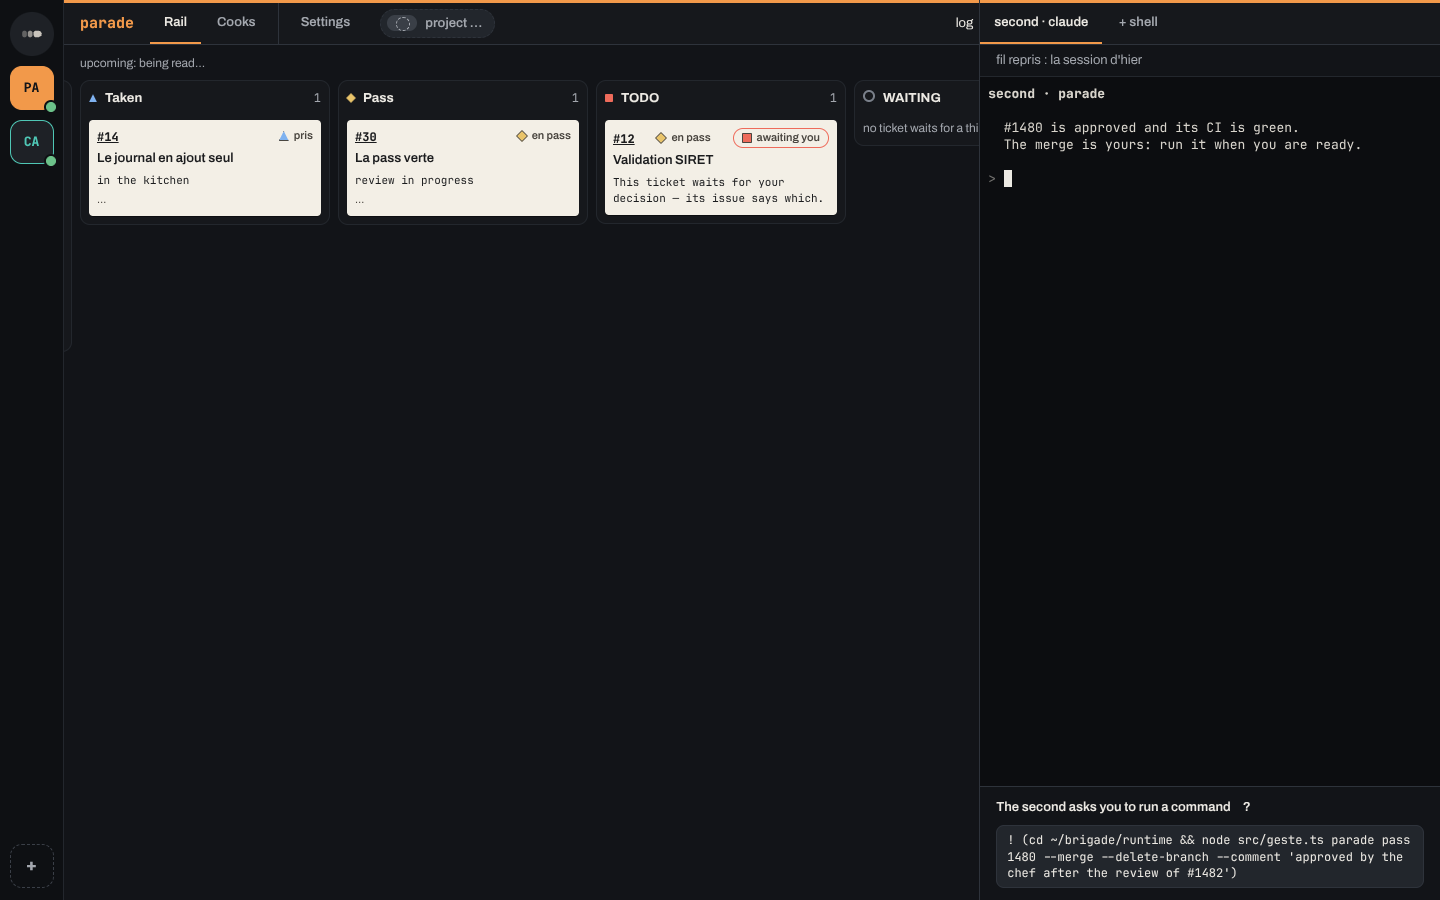
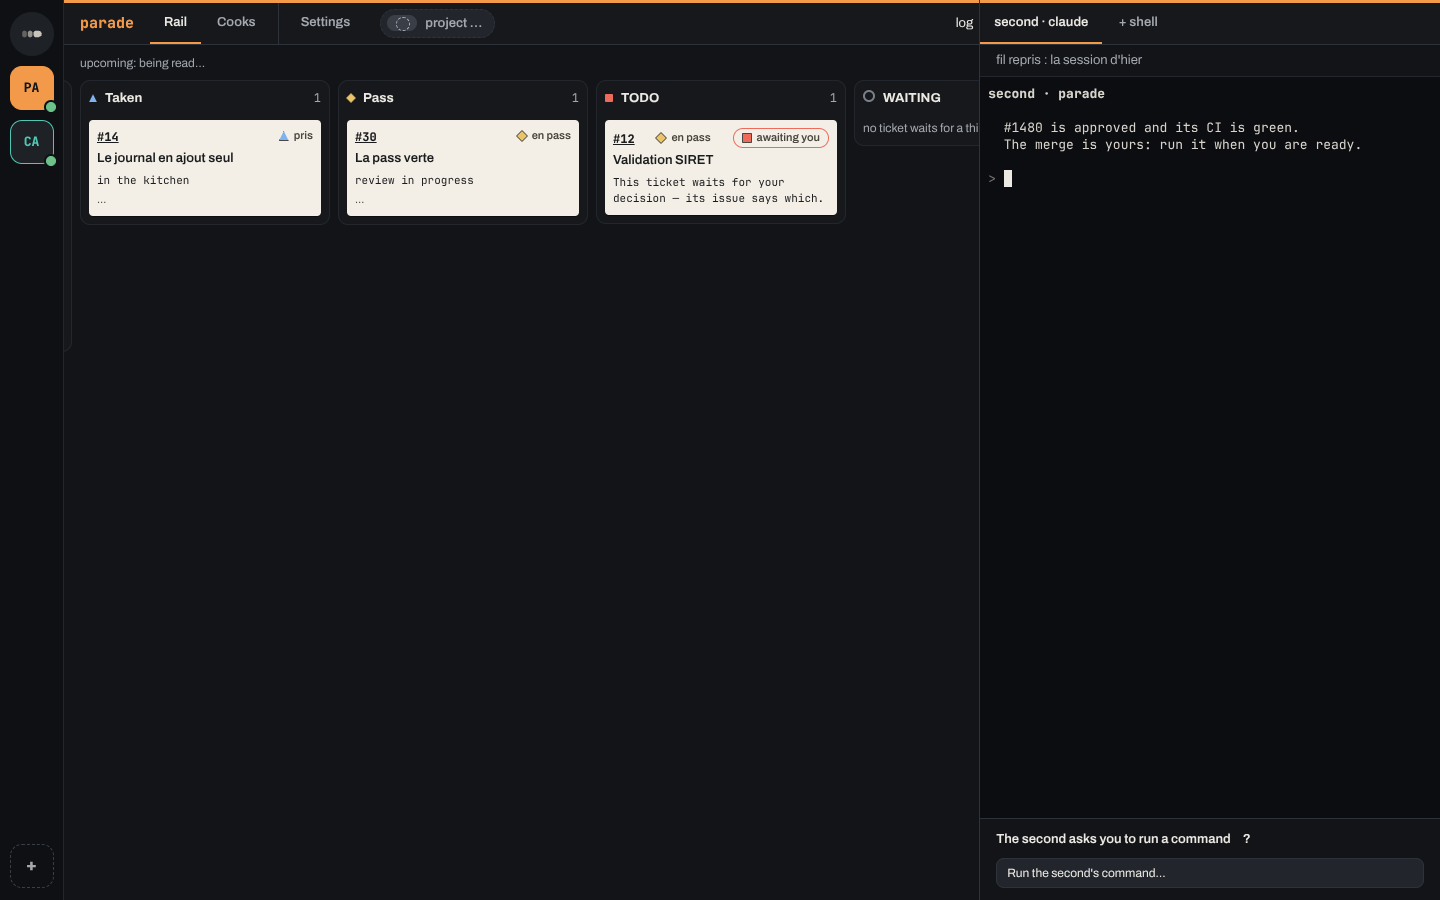
fix(#1847): le geste que le second nomme est un bouton en mots, la commande exacte au survol et dans une aide repliée

Changed region(s): [[0.6875, 0.8711, 0.9688, 0.9956]]

diff --git a/app/test/vue/second/geste.test.ts b/app/test/vue/second/geste.test.ts
@@ -19,7 +19,7 @@ import { EFFORTS, MODELES } from "../../../src/projets/projets.ts";
 import type { Proposition } from "../../../src/second/propositions.ts";
 import type { Terminal } from "../../../src/terminaux.ts";
 import { tenirLesChoix } from "../../../src/vue/second/choix.js";
-import { AIDE, ANNULER, ATTENDU, LANCER, poserGesteDuSecond, TITRE } from "../../../src/vue/second/geste.js";
+import { AIDE, ANNULER, ATTENDU, BOUTON, LANCER, poserGesteDuSecond, TITRE, VOIR } from "../../../src/vue/second/geste.js";
 import { Faux, type Jouee, jouerLaVue, repos } from "../../aides/fausse-vue.ts";
 
 const doc = { createElement: (balise: string) => new Faux(balise) };
@@ -57,19 +57,22 @@ describe("le module : un bouton qui porte la commande, et sa confirmation", () =
     const aide = pose.dessous("button").filter((b) => b.className === "aide");
     assert.equal(aide.length, 1);
     assert.equal(aide[0]?.ariaLabel, AIDE);
-    assert.equal(bouton(pose).textContent, "! gh pr merge 1480 --merge");
+    // Le bouton parle au chef ; la commande exacte n'est nulle part à l'écran, elle est au survol du bouton.
+    assert.equal(bouton(pose).textContent, BOUTON);
+    assert.equal(bouton(pose).ariaLabel, "! gh pr merge 1480 --merge");
+    assert.deepEqual(commandes(pose), []);
     assert.equal(bouton(pose).ariaExpanded, "false");
     assert.equal(confirmation(pose), undefined);
     bouton(pose).click();
     assert.deepEqual(appels, ["basculer"]);
   });
 
-  test("une commande longue se lit entière, à l'octet près — espaces, guillemets, `$` —, sur le bouton comme dans la confirmation", () => {
+  test("une commande longue se lit entière, à l'octet près — espaces, guillemets, `$` —, au survol du bouton et dans l'aide repliée de la confirmation", () => {
     const pose: Faux = poserGesteDuSecond(doc, PASSER, { ouverte: true, basculer: () => {}, annuler: () => {}, lancer: () => {} });
-    assert.equal(bouton(pose).textContent, LONGUE);
-    assert.deepEqual(commandes(pose), [LONGUE, LONGUE]);
+    assert.equal(bouton(pose).ariaLabel, LONGUE);
+    assert.deepEqual(commandes(pose), [LONGUE]);
     // Elle ne passe à la ligne qu'entre ses mots : chacun d'un tenant, aucun n'est coupé ni réécrit.
-    const mots = (bouton(pose).dessous("span").find((span) => span.className === "commande mono") ?? assert.fail("pas de commande")).children.map((mot) => mot.textContent);
+    const mots = (pose.dessous("p").find((p) => p.className === "commande mono") ?? assert.fail("pas de commande")).children.map((mot) => mot.textContent);
     assert.deepEqual(mots, LONGUE.split(/ +/).filter((mot) => mot !== ""));
   });
 
@@ -78,10 +81,12 @@ describe("le module : un bouton qui porte la commande, et sa confirmation", () =
     const pose: Faux = poserGesteDuSecond(doc, MERGER, { ouverte: true, basculer: () => appels.push("basculer"), annuler: () => appels.push("annuler"), lancer: () => appels.push("lancer") });
     const ouverte = confirmation(pose) ?? assert.fail("pas de confirmation");
     assert.equal(bouton(pose).ariaExpanded, "true");
+    // Sous sa question, la commande est dans une aide repliée — fermée —, puis les deux réponses.
     assert.deepEqual(
-      ouverte.children.map((pose) => pose.textContent),
-      [TITRE, "! gh pr merge 1480 --merge", LANCER, ANNULER],
+      ouverte.children.map((pose) => pose.className === "replie" ? pose.dessous("summary")[0]?.textContent.startsWith(VOIR) : pose.textContent),
+      [TITRE, true, LANCER, ANNULER],
     );
+    assert.deepEqual(commandes(pose), ["! gh pr merge 1480 --merge"]);
     assert.equal(reponse(pose, LANCER).className, "recommande");
     // Rien ne coûte : pas de ligne de prix.
     assert.equal(ouverte.dessous("p").some((p) => p.className === "prix"), false);
@@ -155,6 +160,8 @@ const entrer = async (vue: Jouee, rang: number) => {
 const sous = (vue: Jouee) => vue.element("choix-du-second");
 // Ce qui se voit sous le terminal : la commande du bouton, et celle de la confirmation si elle est ouverte.
 const vu = (vue: Jouee) => (sous(vue).hidden ? [] : commandes(sous(vue)));
+// La commande que le bouton propose, au survol — rien quand aucun bouton n'est là.
+const proposee = (vue: Jouee) => (sous(vue).hidden ? [] : [leBouton(sous(vue))?.ariaLabel].filter((commande) => commande !== undefined));
 const ecrits = (vue: Jouee) => vue.appels.filter(({ geste }) => geste === "ecrire").map(({ args }) => args);
 const reponses = (vue: Jouee) => vue.appels.filter(({ geste }) => geste === "repondreAuSecond").map(({ args }) => args);
 const publier = async (vue: Jouee, projet: string, proposition: Proposition | null) => {
@@ -168,12 +175,15 @@ const cliquer = async (pose: Faux) => {
 const terminal = (vue: Jouee) => vue.xterms[0] ?? assert.fail("pas de terminal");
 
 describe("dans l'onglet du second", () => {
-  test("le second nomme un geste : un bouton sous le terminal porte la commande exacte, entière même longue, et rien n'est lancé", async () => {
+  test("le second nomme un geste : un bouton sous le terminal, en mots — la commande exacte, entière même longue, est à son survol —, et rien n'est lancé", async () => {
     const vue = await ouvrir();
     assert.equal(sous(vue).hidden, true);
     await publier(vue, "parade", PASSER);
     assert.equal(sous(vue).hidden, false);
-    assert.deepEqual(vu(vue), [LONGUE]);
+    // Aucune ligne de commande à l'écran : un bouton en mots, la commande au survol.
+    assert.deepEqual(vu(vue), []);
+    assert.equal(bouton(sous(vue)).textContent, BOUTON);
+    assert.equal(bouton(sous(vue)).ariaLabel, LONGUE);
     assert.equal(sous(vue).children[0]?.dessous("p")[0]?.textContent.startsWith(ATTENDU), true);
     assert.deepEqual(ecrits(vue), []);
     assert.deepEqual(reponses(vue), []);
@@ -185,12 +195,12 @@ describe("dans l'onglet du second", () => {
     const focalise = terminal(vue).focalise;
     const sortie = [...terminal(vue).ecrits];
     await cliquer(bouton(sous(vue)));
-    assert.deepEqual(vu(vue), [LONGUE, LONGUE]);
+    assert.deepEqual(vu(vue), [LONGUE]);
     assert.equal((confirmation(sous(vue)) ?? assert.fail("pas de confirmation")).dessous("p")[0]?.textContent, TITRE);
     await cliquer(reponse(sous(vue), ANNULER));
     // La confirmation se referme ; le geste reste proposé, le chef peut y revenir.
     assert.equal(confirmation(sous(vue)), undefined);
-    assert.deepEqual(vu(vue), [LONGUE]);
+    assert.deepEqual(vu(vue), []);
     assert.deepEqual(ecrits(vue), []);
     assert.deepEqual(reponses(vue), []);
     assert.equal(terminal(vue).focalise, focalise);
@@ -230,7 +240,8 @@ describe("dans l'onglet du second", () => {
     const ancien = reponse(sous(vue), LANCER);
     // Une proposition nouvelle : son bouton remplace l'autre, sans confirmation ouverte.
     await publier(vue, "parade", PASSER);
-    assert.deepEqual(vu(vue), [LONGUE]);
+    assert.deepEqual(vu(vue), []);
+    assert.equal(bouton(sous(vue)).ariaLabel, LONGUE);
     assert.equal(confirmation(sous(vue)), undefined);
     await cliquer(ancien);
     assert.deepEqual(ecrits(vue), []);
@@ -278,11 +289,11 @@ describe("dans l'onglet du second", () => {
     await publier(vue, "parade", MERGER);
     terminal(vue).taper("not now");
     await repos();
-    assert.deepEqual(vu(vue), [MERGER.command]);
+    assert.deepEqual(proposee(vue), [MERGER.command]);
     terminal(vue).taper("\r");
     await repos();
     assert.deepEqual(reponses(vue), [["parade", { id: "g-1", by: "text" }]]);
-    assert.deepEqual(vu(vue), []);
+    assert.deepEqual(proposee(vue), []);
     // Le terminal n'a reçu que ce que le chef a tapé.
     assert.deepEqual(ecrits(vue), [[1, "not now"], [1, "\r"]]);
   });
@@ -297,13 +308,13 @@ describe("dans l'onglet du second", () => {
     assert.deepEqual(vu(vue), []);
     (vue.element("terminaux").children.find((pose) => pose.textContent === "second · claude") ?? assert.fail("pas d'onglet du second")).click();
     await repos();
-    assert.deepEqual(vu(vue), [LONGUE]);
+    assert.deepEqual(proposee(vue), [LONGUE]);
     vue.dire("surEtat", { ...SECOND, arrete: true, note: "the second stopped (code 0) — a keypress restarts it" });
     await repos();
     assert.deepEqual(vu(vue), []);
     vue.dire("surEtat", SECOND);
     await repos();
     await entrer(vue, 2);
-    assert.deepEqual(vu(vue), [MERGER.command]);
+    assert.deepEqual(proposee(vue), [MERGER.command]);
   });
 });

diff --git a/app/src/vue/second/geste.js b/app/src/vue/second/geste.js
@@ -1,19 +1,22 @@
 // @ts-check
 // Le geste que le second nomme, sous son terminal (ticket 1521, épique 1518) : quand ce que le chef doit faire est une
 // commande — merger, lancer une pass —, le second la publie par son canal (runtime/src/second-propositions/), et
-// l'onglet du second la montre sur un bouton, à la place des choix (second/choix.js) : la commande exacte, entière, ni
-// coupée, ni rognée, ni cachée. Un clic ouvre une confirmation qui la redit entière ; « run it » la tape dans le
+// l'onglet du second la montre sur un bouton, à la place des choix (second/choix.js) : un bouton dit dans les mots du
+// chef, jamais la ligne de commande à l'écran. La commande exacte, entière, ni coupée ni rognée, se lit au survol du
+// bouton, puis dans l'aide repliée de la confirmation qu'un clic ouvre ; « run it » la tape dans le
 // terminal du second, puis Entrée, comme le chef l'aurait tapée, et « cancel » ne fait rien. Le second ne lance
 // jamais rien : seul le « run it » du chef écrit dans le terminal. Lancé, ou le second passé à autre chose, le bouton
 // part. Ce module ne touche pas `document` : il reçoit de quoi créer un élément (briques.js), et rend des éléments.
 
-import { confirmationDeGeste, survol } from "../briques.js";
+import { confirmationDeGeste, replie, survol } from "../briques.js";
 
 /** @typedef {import("../briques.js").Fabrique} Fabrique */
 /** @typedef {import("./choix.js").Geste} Geste */
 
 export const ATTENDU = "The second asks you to run a command";
-export const AIDE = "a click shows the command again: it runs in the second's terminal, in your name, only once you confirm — you can also type it there yourself";
+export const AIDE = "a click asks you to confirm: the command runs in the second's terminal, in your name, only once you do — hover the button to read it";
+export const BOUTON = "Run the second's command…";
+export const VOIR = "the exact command";
 export const TITRE = "Run this command in the second's terminal, in your name?";
 export const LANCER = "run it";
 export const ANNULER = "cancel";
@@ -58,15 +61,15 @@ export function poserGesteDuSecond(doc, proposition, { ouverte, basculer, annule
   const bouton = cree(doc, "button");
   bouton.type = "button";
   bouton.className = "geste";
-  bouton.title = "shows the command again first: nothing runs before your “run it”";
   bouton.ariaExpanded = String(ouverte);
-  bouton.append(commandeEntiere(doc, "span", proposition.command));
+  bouton.textContent = BOUTON;
   bouton.addEventListener("click", basculer);
-  racine.append(attendu, bouton);
+  // La commande exacte, entière, au survol du bouton : nothing runs before the chef's “run it”.
+  racine.append(attendu, survol(doc, proposition.command, bouton));
   if (ouverte) {
     const confirmation = confirmationDeGeste(doc, { titre: TITRE, oui: LANCER, non: ANNULER }, { oui: lancer, non: annuler });
-    // La commande redite entière, sous la question, avant « run it ».
-    confirmation.children[0]?.after(commandeEntiere(doc, "p", proposition.command));
+    // La commande redite entière, dans une aide repliée sous la question, avant « run it ».
+    confirmation.children[0]?.after(replie(doc, { titre: VOIR, resume: "what runs, word for word" }, [commandeEntiere(doc, "p", proposition.command)]));
     racine.append(confirmation);
   }
   return racine;

diff --git a/scripts/capture-ecran/ecrans/second-geste.ts b/scripts/capture-ecran/ecrans/second-geste.ts
@@ -1,13 +1,13 @@
-// L'espace de « parade », son second qui nomme un geste à faire (#1521, épique #1518) : sous le terminal, un bouton qui
-// montre la commande exacte que le second a publiée par son canal (runtime/src/second-propositions/), entière même
-// longue. Rien n'est lancé : un clic ouvre la confirmation (`second-geste-confirmation`).
+// L'espace de « parade », son second qui nomme un geste à faire (#1521, épique #1518) : sous le terminal, un bouton en
+// mots ; la commande exacte que le second a publiée par son canal (runtime/src/second-propositions/) est à son survol, entière
+// même longue. Rien n'est lancé : un clic ouvre la confirmation (`second-geste-confirmation`), où elle se lit dans une aide repliée.
 import type { Proposition } from "../../../runtime/src/second-propositions/proposition.ts";
 import type { Terminal } from "../../../app/src/terminaux.ts";
 import { configuration, cuisine, demarrage, type Ecran, MAINTENANT } from "./commun.ts";
 import { PROJETS, RENDUS } from "./cuisine-figee.ts";
 
 const SECOND: Terminal = { id: 1, projet: "parade", genre: "second", titre: "second · claude", note: "fil repris : la session d'hier", arrete: false };
-// Une commande longue, telle que le second la publie : elle se lit en entier sur le bouton et dans la confirmation.
+// Une commande longue, telle que le second la publie : elle se lit en entier au survol du bouton et dans la confirmation.
 export const COMMANDE = "! (cd ~/brigade/runtime && node src/geste.ts parade pass 1480 --merge --delete-branch --comment 'approved by the chef after the review of #1482')";
 // Ce que le second affiche : ce qu'il propose, tel qu'il l'écrit, et `claude` qui attend.
 const ECRAN_DU_SECOND = [
@@ -36,6 +36,6 @@ export const geste = (etapes: Ecran["etapes"]): Pick<Ecran, "largeur" | "hauteur
 });
 
 export const ecran: Ecran = {
-  dit: "L'espace de « parade », son second qui nomme un geste (#1521) : sous le terminal, un bouton qui montre la commande exacte, entière",
+  dit: "L'espace de « parade », son second qui nomme un geste (#1521) : sous le terminal, un bouton en mots, la commande exacte au survol",
   ...geste([]),
 };

diff --git a/app/test/second-windows/aides.ts b/app/test/second-windows/aides.ts
@@ -38,4 +38,9 @@ export const cliquer = async (pose: Faux) => {
 export const bouton = (ou: Faux, classe: string, ok: (pose: Faux) => boolean = () => true) => ou.dessous("button").find((pose) => pose.className === classe && ok(pose)) ?? assert.fail(`pas de bouton « ${classe} »`);
 export const confirmation = (ou: Faux) => ou.dessous("section").find((pose) => pose.className === "confirmation");
 export const reponse = (ou: Faux, libelle: string) => (confirmation(ou) ?? assert.fail("pas de confirmation")).dessous("button").find((pose) => pose.textContent === libelle) ?? assert.fail(`pas de « ${libelle} »`);
-export const commandes = (ou: Faux) => [...ou.descendants()].filter((pose) => pose.className === "commande mono").map((pose) => pose.textContent);
+// Les commandes que le geste porte : celle du bouton, qui n'est qu'à son survol, puis celle que la confirmation redit
+// dans son aide repliée — jamais une ligne de commande à l'écran tant que rien n'est ouvert.
+export const commandes = (ou: Faux) => [
+  ...ou.dessous("button").filter((pose) => pose.className === "geste").map((pose) => pose.ariaLabel),
+  ...[...ou.descendants()].filter((pose) => pose.className === "commande mono").map((pose) => pose.textContent),
+];

diff --git a/app/src/vue/vue.css b/app/src/vue/vue.css
@@ -6548,9 +6548,12 @@ button.recommande {
   font-weight: 600;
   overflow-wrap: anywhere;
 }
-/* Le geste que le second nomme (ticket 1521) : sous le terminal, à la place des choix, un bouton qui montre la commande
-   exacte, entière — ses espaces gardés, une commande longue passe à la ligne, rien n'est coupé ni caché. Le clic ouvre
-   dessous la confirmation commune, qui la redit entière avant « run it ». */
+/* Le geste que le second nomme (ticket 1521) : sous le terminal, à la place des choix, un bouton dit en mots ; la commande
+   exacte, entière — ses espaces gardés, une commande longue passe à la ligne, rien n'est coupé —, est au survol du bouton
+   et dans l'aide repliée de la confirmation commune que le clic ouvre, avant « run it ». */
+.geste-du-second > .survol {
+  display: block;
+}
 .geste-du-second button.geste {
   display: block;
   width: 100%;
@@ -6585,6 +6588,13 @@ button.recommande {
 }
 .geste-du-second .confirmation > p.titre {
   font-weight: 600;
+}
+.geste-du-second .replie > summary {
+  cursor: pointer;
+}
+.geste-du-second .replie > summary .resume {
+  margin-left: 8px;
+  color: var(--discret);
 }
 .geste-du-second .confirmation > button {
   align-self: flex-start;

diff --git a/scripts/capture-ecran/ecrans/second-geste-confirmation.ts b/scripts/capture-ecran/ecrans/second-geste-confirmation.ts
@@ -4,6 +4,6 @@ import type { Ecran } from "./commun.ts";
 import { geste } from "./second-geste.ts";
 
 export const ecran: Ecran = {
-  dit: "Le même espace, le bouton du geste cliqué (#1521) : la confirmation qui redit la commande entière, « run it » et « cancel »",
+  dit: "Le même espace, le bouton du geste cliqué (#1521) : la confirmation, la commande entière dans une aide repliée, « run it » et « cancel »",
   ...geste([{ cliquer: "#choix-du-second button.geste" }]),
 };

diff --git a/docs/app.md b/docs/app.md
@@ -448,11 +448,12 @@ project, in the main process). Captures: `docs/captures/1520/`.*
 
 When what you have to do is a command — a merge, a pass on the box —, the second publishes it as a gesture through
 the same channel. Under its terminal, one line says `The second asks you to run a command` (how it works is in its
-`?` hover), then **one button that shows the exact command, in full**: nothing shortened, rewritten or hidden — a long
-command wraps between its words, its spaces and quotes kept as published.
+`?` hover), then **one button, `Run the second's command…`**, in plain words: no command line is written on the screen. The
+exact command, in full, is read on hovering the button, and again in the confirmation: nothing shortened or rewritten
+— a long command wraps between its words, its spaces and quotes kept as published.
 
 - **A click opens a confirmation**, under the button: `Run this command in the second's terminal, in your name?`,
-  the same full command again, then `run it` and `cancel`. Nothing runs yet; a second click on the button closes it.
+  a folded `the exact command` line that opens on the full command, then `run it` and `cancel`. Nothing runs yet; a second click on the button closes it.
 - **`cancel` runs nothing**: the confirmation closes, nothing is typed into the terminal, and the button stays — the
   gesture is still proposed.
 - **`run it` types the command into the second's terminal**, exactly as published, then Enter — as if you had typed
